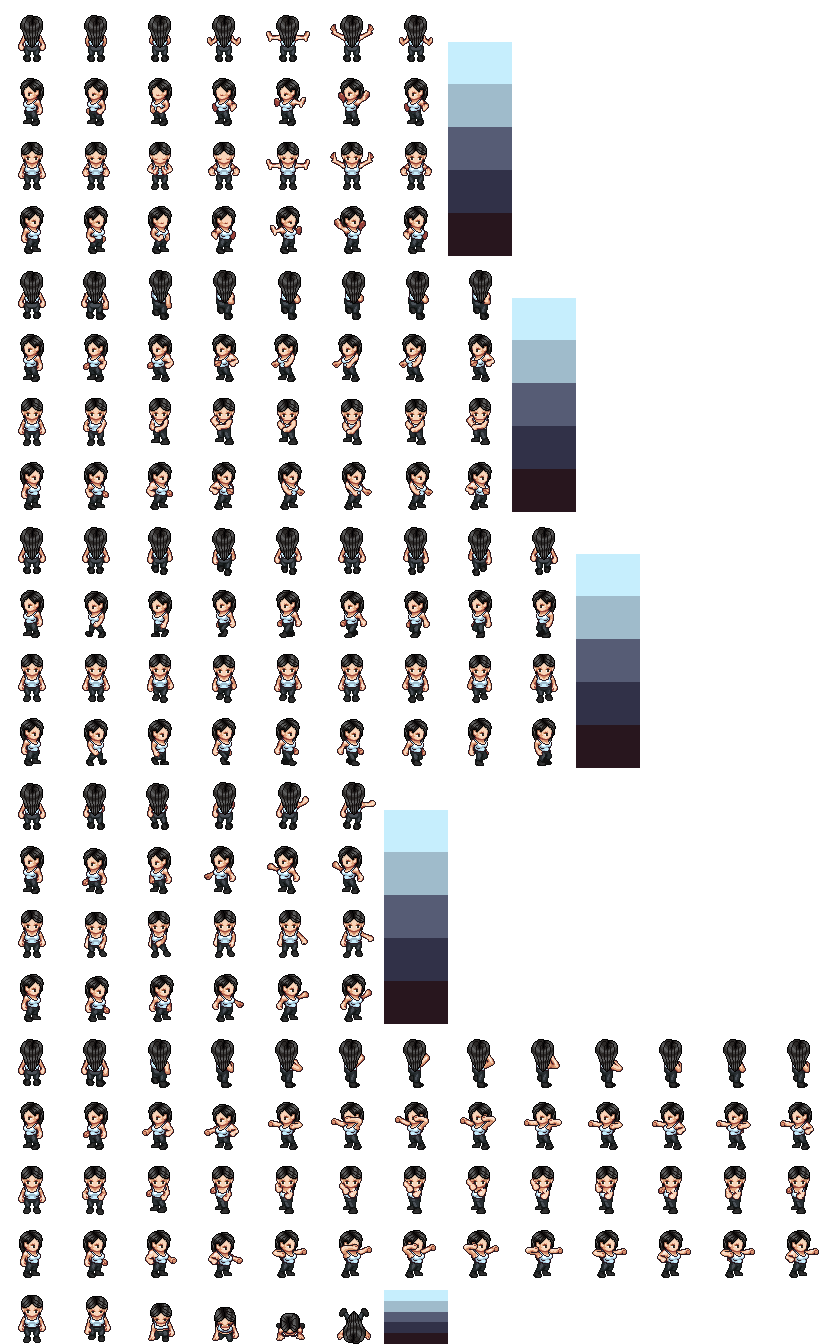
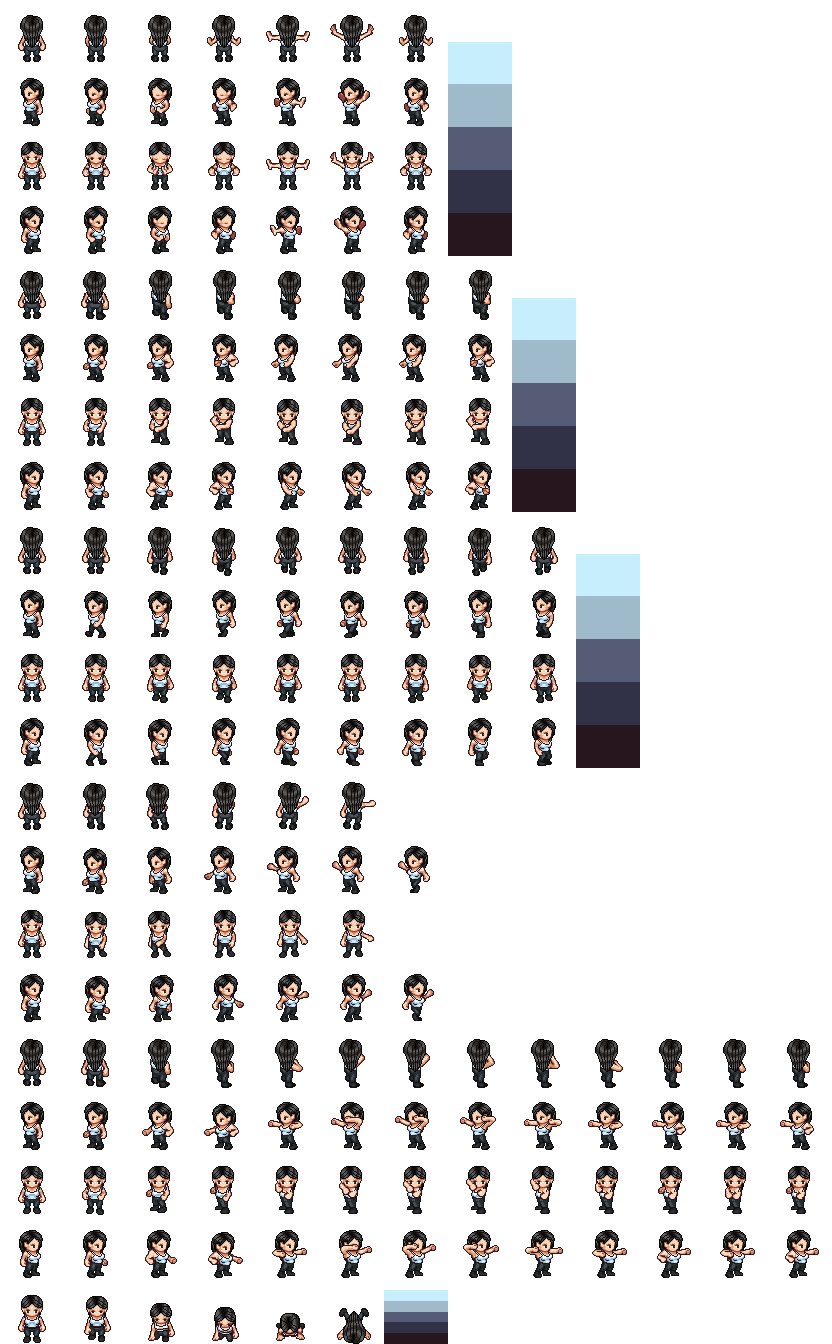
Added jumping states to characters. Added those sprites to Sarah only for now.

Changed region(s): [[0.4375, 0.5938, 0.5625, 0.7812]]

diff --git a/color-blaster-mvc/Scripts/character.js b/color-blaster-mvc/Scripts/character.js
@@ -291,7 +291,15 @@ class Character {
             
 
             this.collapse = new SpriteAnimation('collapse', this.sheetUrl, 
-            0, (21 * this.spriteHeight), 6, this.spriteWidth, this.spriteHeight);
+                0, (21 * this.spriteHeight), 6, this.spriteWidth, this.spriteHeight);
+
+
+
+        this.marioLeft = new SpriteAnimation('marioLeft', this.sheetUrl,
+            (6 * this.spriteWidth), (13 * this.spriteHeight), 1, this.spriteWidth, this.spriteHeight);
+
+        this.marioRight = new SpriteAnimation('marioRight', this.sheetUrl,
+            (6 * this.spriteWidth), (15 * this.spriteHeight), 1, this.spriteWidth, this.spriteHeight);
         
             this.animationChangeInterval = 0.5;
             this.lastTimeStamp = Date.now();

diff --git a/color-blaster-mvc/Scripts/canvas.js b/color-blaster-mvc/Scripts/canvas.js
@@ -2994,7 +2994,7 @@ var Game = {
 
     testDrawPipe: function() {
         //let newRelatives = this.getRelativePosition(2, 7);
-        let xPos = 7 * this.tileWidth;
+        let xPos = 8 * this.tileWidth;
         let yPos = 2 * this.tileHeight;
         let image = new Image();
         image.src = "images/pipe-sprites/pipe-single1.png";
